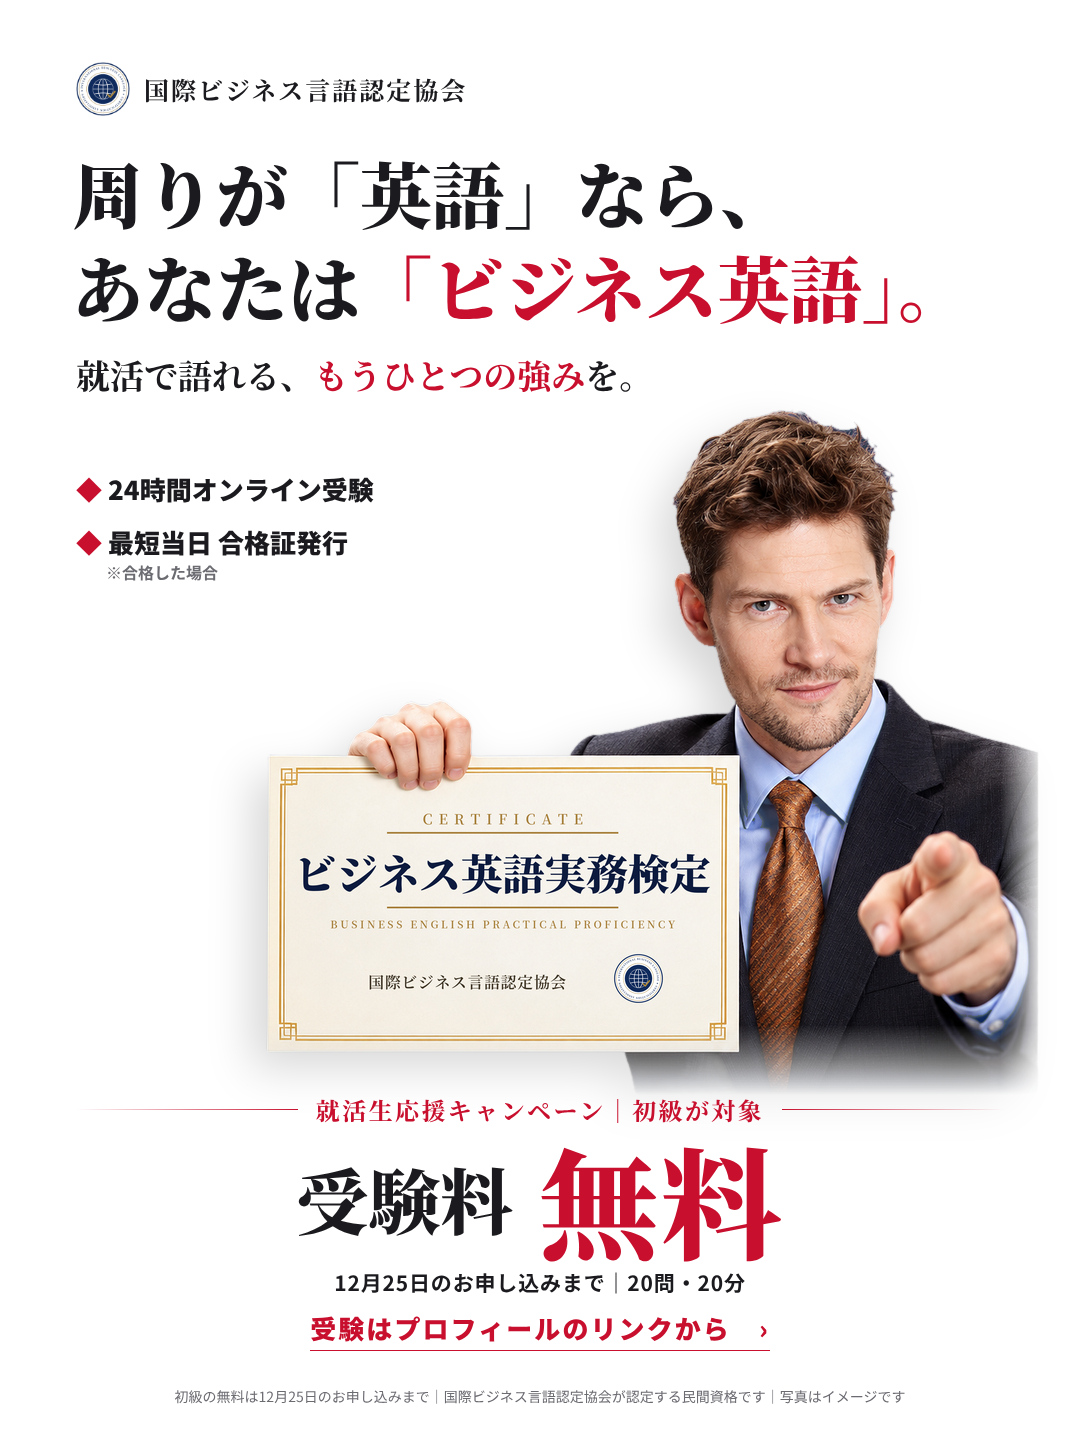
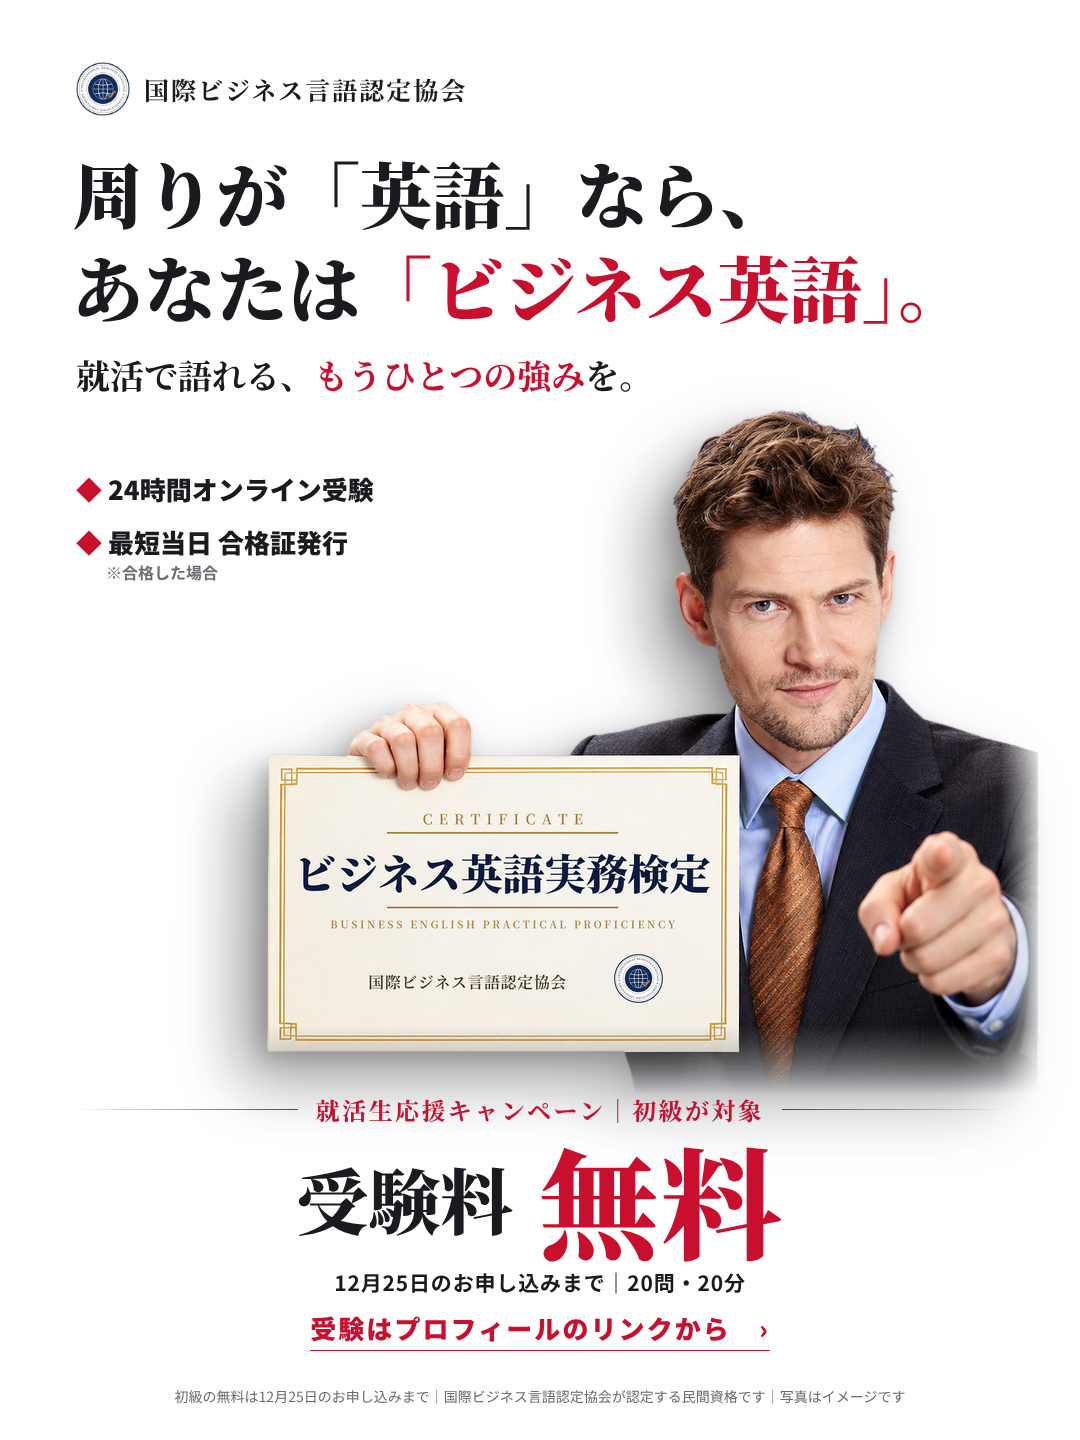
写真モデル版の真っ白版：人物の影を濃く
Claude-Session: https://claude.ai/code/session_014p5jKzC7vmuyPAkeTgUdi2

Changed region(s): [[0.1833, 0.5312, 0.9167, 0.7812], [0.5806, 0.3125, 0.7028, 0.5], [0.3056, 0.5, 0.3361, 0.5312]]

diff --git a/content/posters/redwhite/man_white.html b/content/posters/redwhite/man_white.html
@@ -67,7 +67,7 @@ body:before{content:"";position:absolute;left:0;right:0;top:0;height:14px;backgr
 .note{color:#ffd0d6!important;z-index:5;top:1386px!important}
 body:before{display:none!important}
 .redband{display:none!important}
-.ken{filter:drop-shadow(-16px 20px 22px rgba(0,0,0,.16))!important}
+.ken{filter:drop-shadow(-26px 30px 32px rgba(0,0,0,.34)) drop-shadow(-8px 10px 10px rgba(0,0,0,.22))!important}
 .vD .t span{color:#c8102e!important}
 .vD .t:before{background:linear-gradient(90deg,rgba(200,16,46,0),#c8102e)!important}.vD .t:after{background:linear-gradient(90deg,#c8102e,rgba(200,16,46,0))!important}
 .vD .a{color:#1b1b1f!important}.vD .a b{color:#c8102e!important;text-shadow:none!important}

diff --git a/log/posted.md b/log/posted.md
@@ -132,3 +132,4 @@
 - 2026-11-01 実行メモ｜11月の Metricool 予約は3本 → 残り17本（11/6〜11/30）。先週（10/25〜10/31）：TikTok 最高はアニメEP1（オーナー手動）163回、自動では reinvent the wheel 144回。インスタは「前向きに検討します」90回
 - 2026-11-01 作成｜インスタ固定投稿用の赤白版2枚｜assets/images/campaign_v28_redwhite_ig/（写真モデル版・ケン版。オーナーがくれた紺版2枚から人物を切り抜き、白地＋上の赤い線＋下の赤い帯に。オーナー指示で赤を使用）｜未投稿（オーナーが自分で投稿）
 - 2026-11-01 作成｜写真モデル版の真っ白版（インスタ）｜assets/images/campaign_v28_redwhite_ig/写真モデル_真っ白_黒赤_Instagram_1080x1440.jpg（背景は真っ白、赤い線・帯なし、文字は黒と赤のみ。オーナー指示）｜未投稿
+- 2026-11-01 修正｜写真モデル版の真っ白版：人物の影を濃く（左下へ落ちる影）
